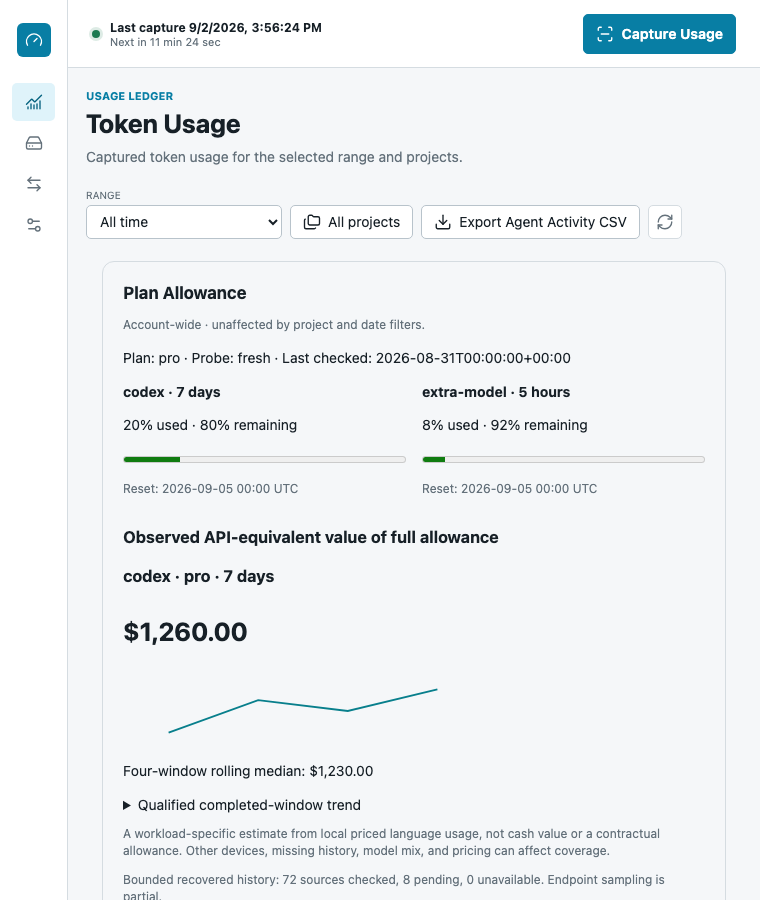
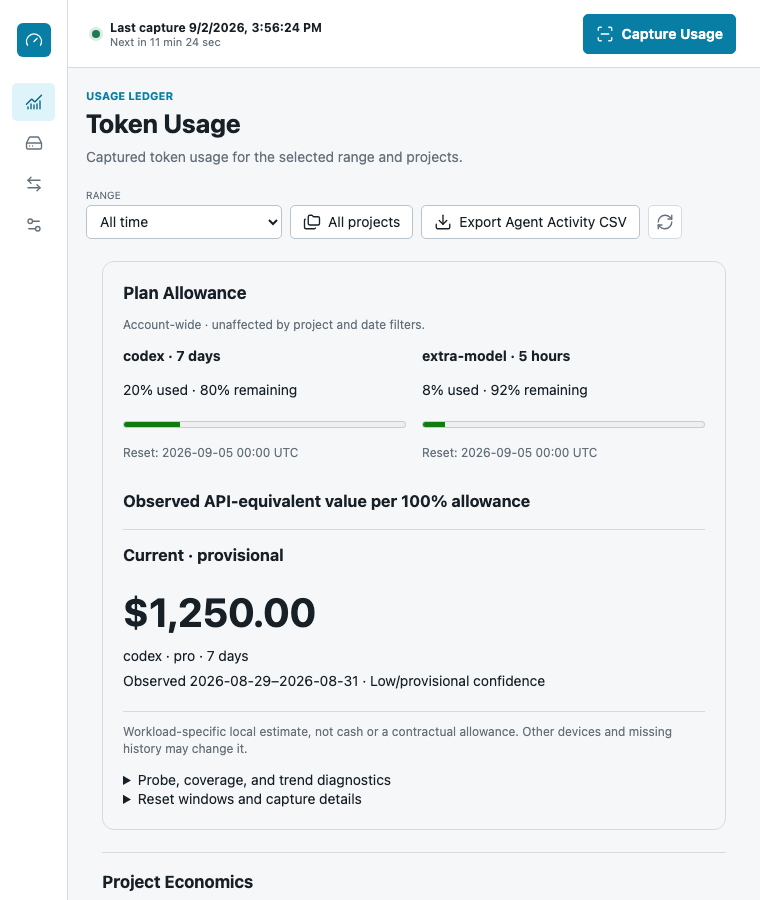
Release Codex Usage 2.8.2

Changed region(s): [[0.1211, 0.3733, 0.8776, 1.0]]

diff --git a/extensions/vscode/src/extension.ts b/extensions/vscode/src/extension.ts
@@ -473,7 +473,7 @@ function controlState(): Pick<Parameters<typeof decorateUsageReport>[1], "range"
     range: selectedRange === "custom" ? customRangeLabel() : rangeLabel(selectedRange),
     theme: reportTheme(),
     projectCount: selectedProjects().length,
-    version: String(contextRef.extension.packageJSON.version ?? "2.8.1"),
+    version: String(contextRef.extension.packageJSON.version ?? "2.8.2"),
     lastCaptureAt: latestStatus?.last_capture_at ?? "",
   };
 }

diff --git a/apps/desktop/src/host.ts b/apps/desktop/src/host.ts
@@ -86,8 +86,8 @@ export async function checkForUpdate(): Promise<UpdateInfo> {
   if (!inTauri) {
     return {
       available: false,
-      current_version: "2.8.1",
-      version: "2.8.1",
+      current_version: "2.8.2",
+      version: "2.8.2",
       date: null,
       body: null,
     };

diff --git a/extensions/vscode/test/reportHtml.test.js b/extensions/vscode/test/reportHtml.test.js
@@ -14,7 +14,7 @@ const controls = {
   projectCount: 0,
   loadedSeconds: 0.04,
   cacheHit: true,
-  version: "2.8.1",
+  version: "2.8.2",
   view: "usage",
   lastCaptureAt: "2026-09-04T12:30:00Z",
 };

diff --git a/tests/test_github_actions_workflow.py b/tests/test_github_actions_workflow.py
@@ -159,7 +159,7 @@ def test_preview_artifacts_include_hash_based_integrity_metadata(tmp_path: Path)
         )
 
 
-def test_release_metadata_is_consistently_2_8_0() -> None:
+def test_release_metadata_is_consistently_2_8_2() -> None:
     pyproject = tomllib.loads(PYPROJECT.read_text(encoding="utf-8"))
     uv_lock = tomllib.loads(UV_LOCK.read_text(encoding="utf-8"))
     extension = json.loads(EXTENSION_PACKAGE.read_text(encoding="utf-8"))
@@ -192,7 +192,7 @@ def test_release_metadata_is_consistently_2_8_0() -> None:
         cargo["package"]["version"],
         rust_package["version"],
     }
-    assert versions == {"2.8.1"}
+    assert versions == {"2.8.2"}
     assert "scripts" not in pyproject["project"]
     assert "preview" not in extension
 

diff --git a/tests/test_release_history.py b/tests/test_release_history.py
@@ -10,6 +10,7 @@ CHANGELOGS = (ROOT / "CHANGELOG.md", ROOT / "extensions/vscode/CHANGELOG.md")
 SUPPORT_DOCS = (ROOT / "SUPPORT.md", ROOT / "extensions/vscode/SUPPORT.md")
 
 ROOT_RELEASE_DATES = {
+    "2.8.2": "2026-09-23",
     "2.8.1": "2026-09-22",
     "2.8.0": "2026-09-21",
     "2.7.1": "2026-09-12",
@@ -86,6 +87,7 @@ ROOT_RELEASE_DATES = {
     "0.1.0": "2026-05-19",
 }
 EXTENSION_RELEASE_VERSIONS = (
+    "2.8.2",
     "2.8.1",
     "2.8.0",
     "2.7.1",

diff --git a/src/codex_usage/__init__.py b/src/codex_usage/__init__.py
@@ -1,3 +1,3 @@
 """Private capture and ledger core for the Codex Usage native app."""
 
-__version__ = "2.8.1"
+__version__ = "2.8.2"

diff --git a/docs/release.md b/docs/release.md
@@ -1,6 +1,6 @@
-# 2.8.1 Distribution Checklist
+# 2.8.2 Distribution Checklist
 
-Version 2.8.1 publishes standalone macOS Apple Silicon and Windows x64 VSIX
+Version 2.8.2 publishes standalone macOS Apple Silicon and Windows x64 VSIX
 packages to the VS Code Marketplace. Each VSIX bundles its matching collector
 and does not require the native application.
 
@@ -147,16 +147,16 @@ as a runtime dependency.
 
 ## Marketplace Publication
 
-Confirm all Python, npm, Cargo, Tauri, and lockfile versions are `2.8.1`, both
-changelogs have a dated `2.8.1` entry, and the candidate commit is contained in
+Confirm all Python, npm, Cargo, Tauri, and lockfile versions are `2.8.2`, both
+changelogs have a dated `2.8.2` entry, and the candidate commit is contained in
 `origin/main`.
 
-The only valid release tag for this version is `v2.8.1`. Create and push that
+The only valid release tag for this version is `v2.8.2`. Create and push that
 exact tag after the non-publishing gate succeeds:
 
 ```bash
-git tag v2.8.1
-git push origin v2.8.1
+git tag v2.8.2
+git push origin v2.8.2
 ```
 
 The tag reruns every platform gate and publishes these immutable Marketplace
@@ -170,8 +170,8 @@ codex-usage-companion-win32-x64.vsix
 The native jobs also produce these run-scoped artifacts:
 
 ```text
-Codex-Usage-2.8.1-macos-arm64-unsigned-preview.dmg
-Codex-Usage-2.8.1-windows-x64-unsigned-preview-setup.exe
+Codex-Usage-2.8.2-macos-arm64-unsigned-preview.dmg
+Codex-Usage-2.8.2-windows-x64-unsigned-preview-setup.exe
 preview-integrity.json
 SHA256SUMS.txt
 ```

diff --git a/CHANGELOG.md b/CHANGELOG.md
@@ -2,6 +2,11 @@
 
 ## Unreleased
 
+## 2.8.2 - 2026-09-23
+
+- Focus Plan Allowance on the latest valid ongoing-window estimate and keep
+  earlier qualified estimates in collapsed details.
+
 ## 2.8.1 - 2026-09-22
 
 - Recognize exact GPT-6 Sol and Luna model IDs in reports and price their API-equivalent

diff --git a/extensions/vscode/CHANGELOG.md b/extensions/vscode/CHANGELOG.md
@@ -2,6 +2,11 @@
 
 ## Unreleased
 
+## 2.8.2 - 2026-09-23
+
+- Focus Plan Allowance on the latest valid ongoing-window estimate, with
+  earlier qualified estimates in collapsed details.
+
 ## 2.8.1 - 2026-09-22
 
 - Recognize GPT-6 Sol and Luna in Model Mix and Project Breakdown, with stable
